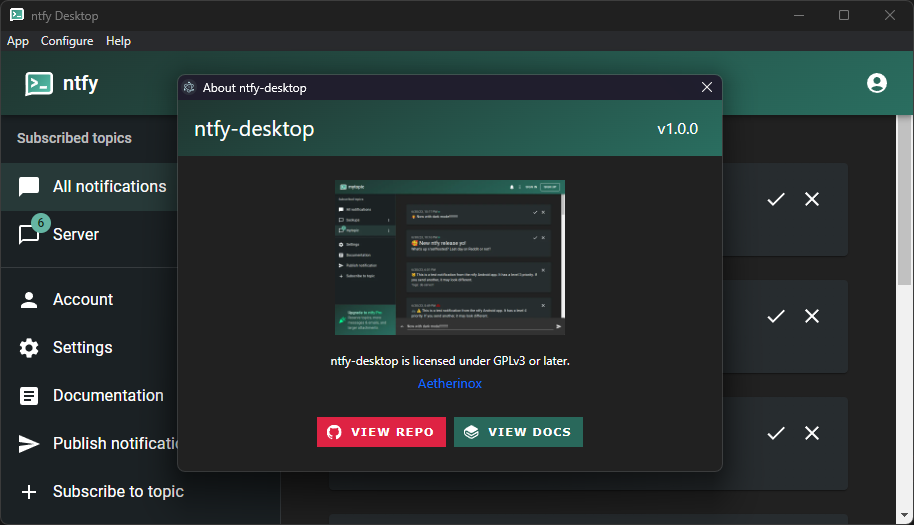
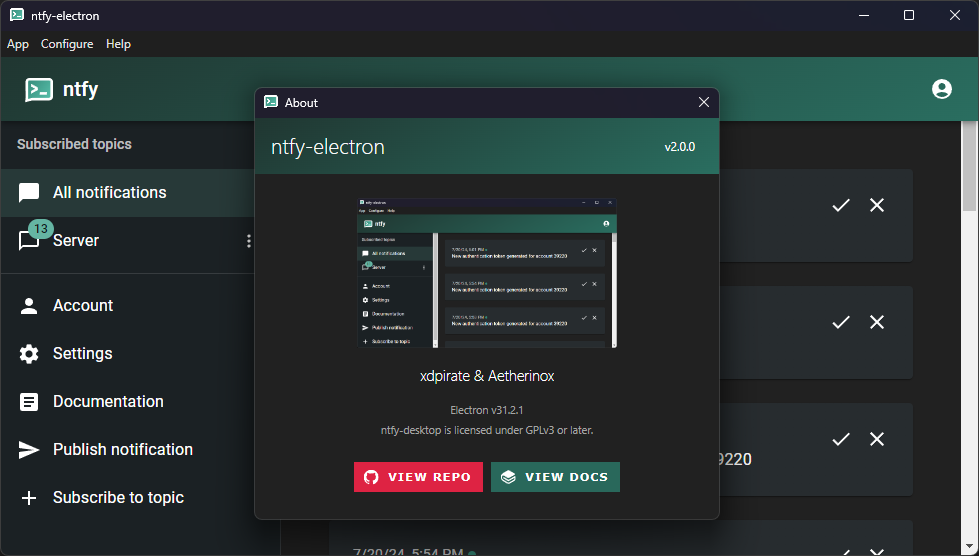
docs: update screenshots

diff --git a/README.md b/README.md
@@ -6,16 +6,16 @@
 
 <p>A ntfy.sh desktop client built with Electron which supports Windows, Linux, and MacOSX. This client rests in your taskbar tray and allows you to receive push notifications to your desktop without requiring you to leave your browser open.</p>
 
-<br />
+<p float="left">
+  <img style="padding-right:15px;" src="https://github.com/user-attachments/assets/b6a34bc3-dbbf-4249-b3d2-d113a21cca66" width="300" />
+  <img src="https://github.com/user-attachments/assets/4f842360-bc94-46eb-8660-17f221fe745d" width="300" /> 
+</p>
 
-<img src="https://github.com/user-attachments/assets/74963e6d-d8ca-4aaa-b893-3b5472794c30" width="630">
+<p float="left">
+  <img style="padding-right:15px;" src="https://github.com/user-attachments/assets/ebe0c02c-336f-4e95-b0f9-24c5b853f0e4" width="300" />
+  <img src="https://github.com/user-attachments/assets/31c0a712-f596-44b1-a30d-fdbe579d9df6" width="300" /> 
+</p>
 
-<br />
-
-<img src="https://github.com/user-attachments/assets/18b349fb-d88d-4d63-9de4-ed3024df4d6f" width="630">
-
-
-<br />
 <br />
 
 </div>
